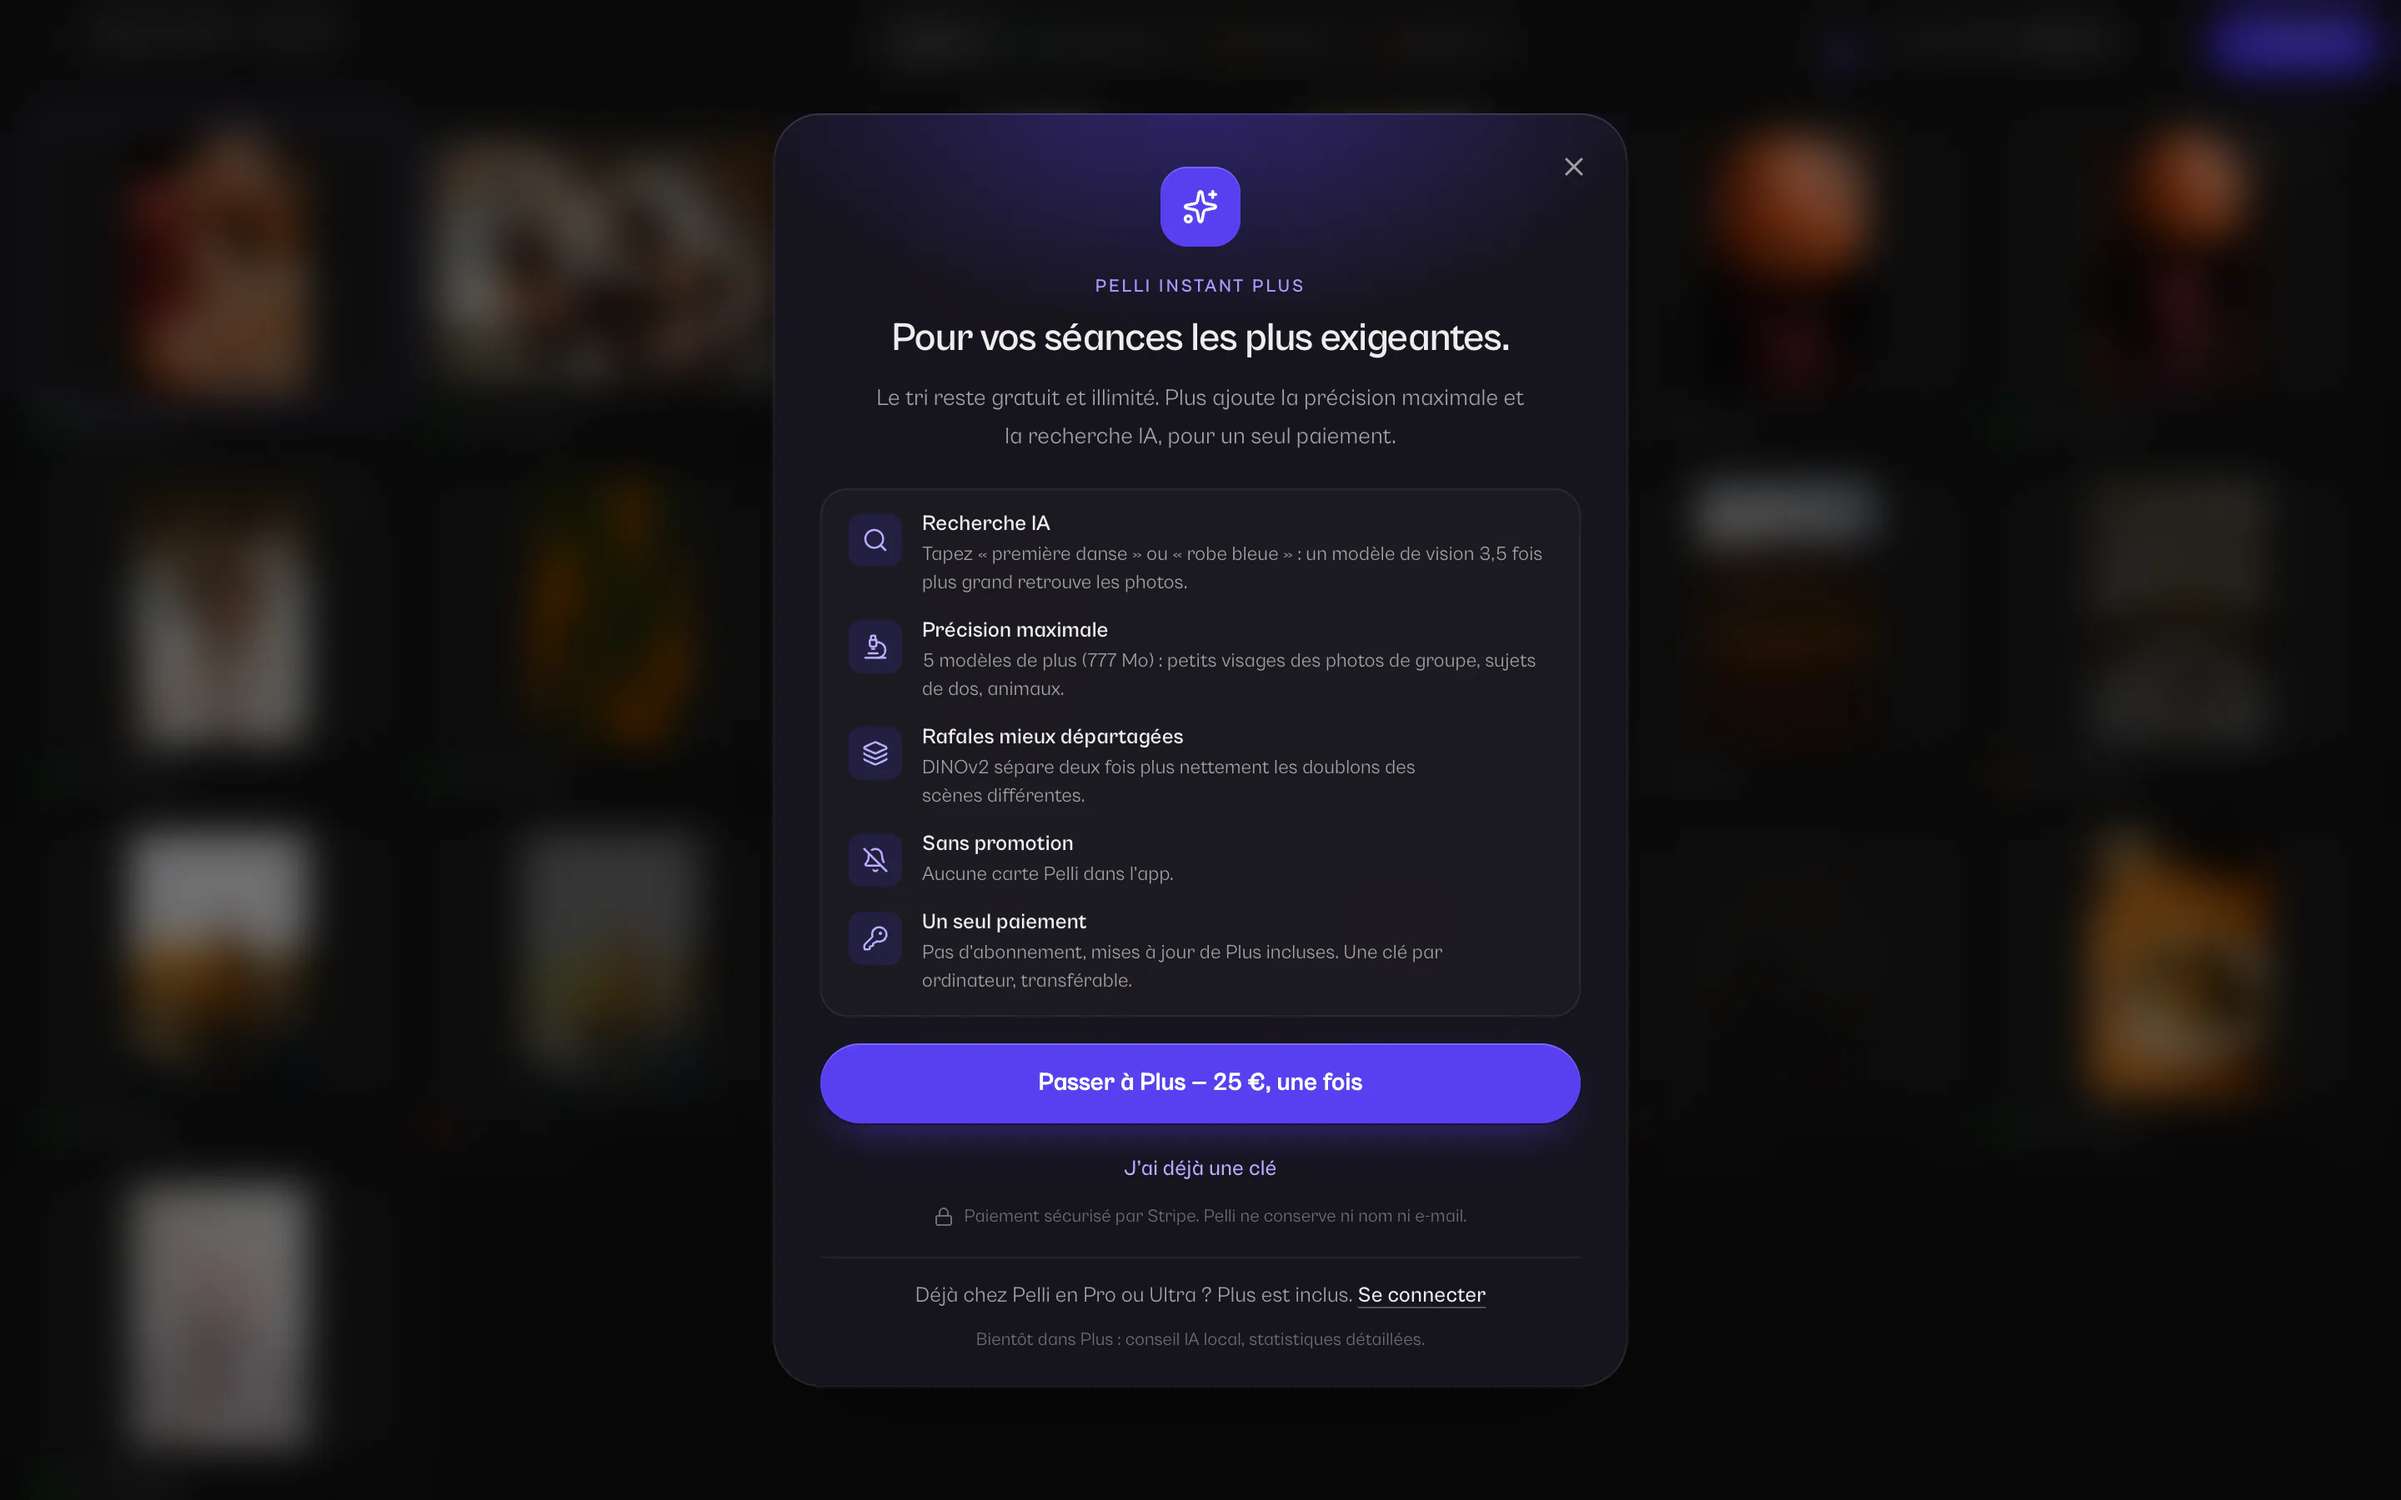
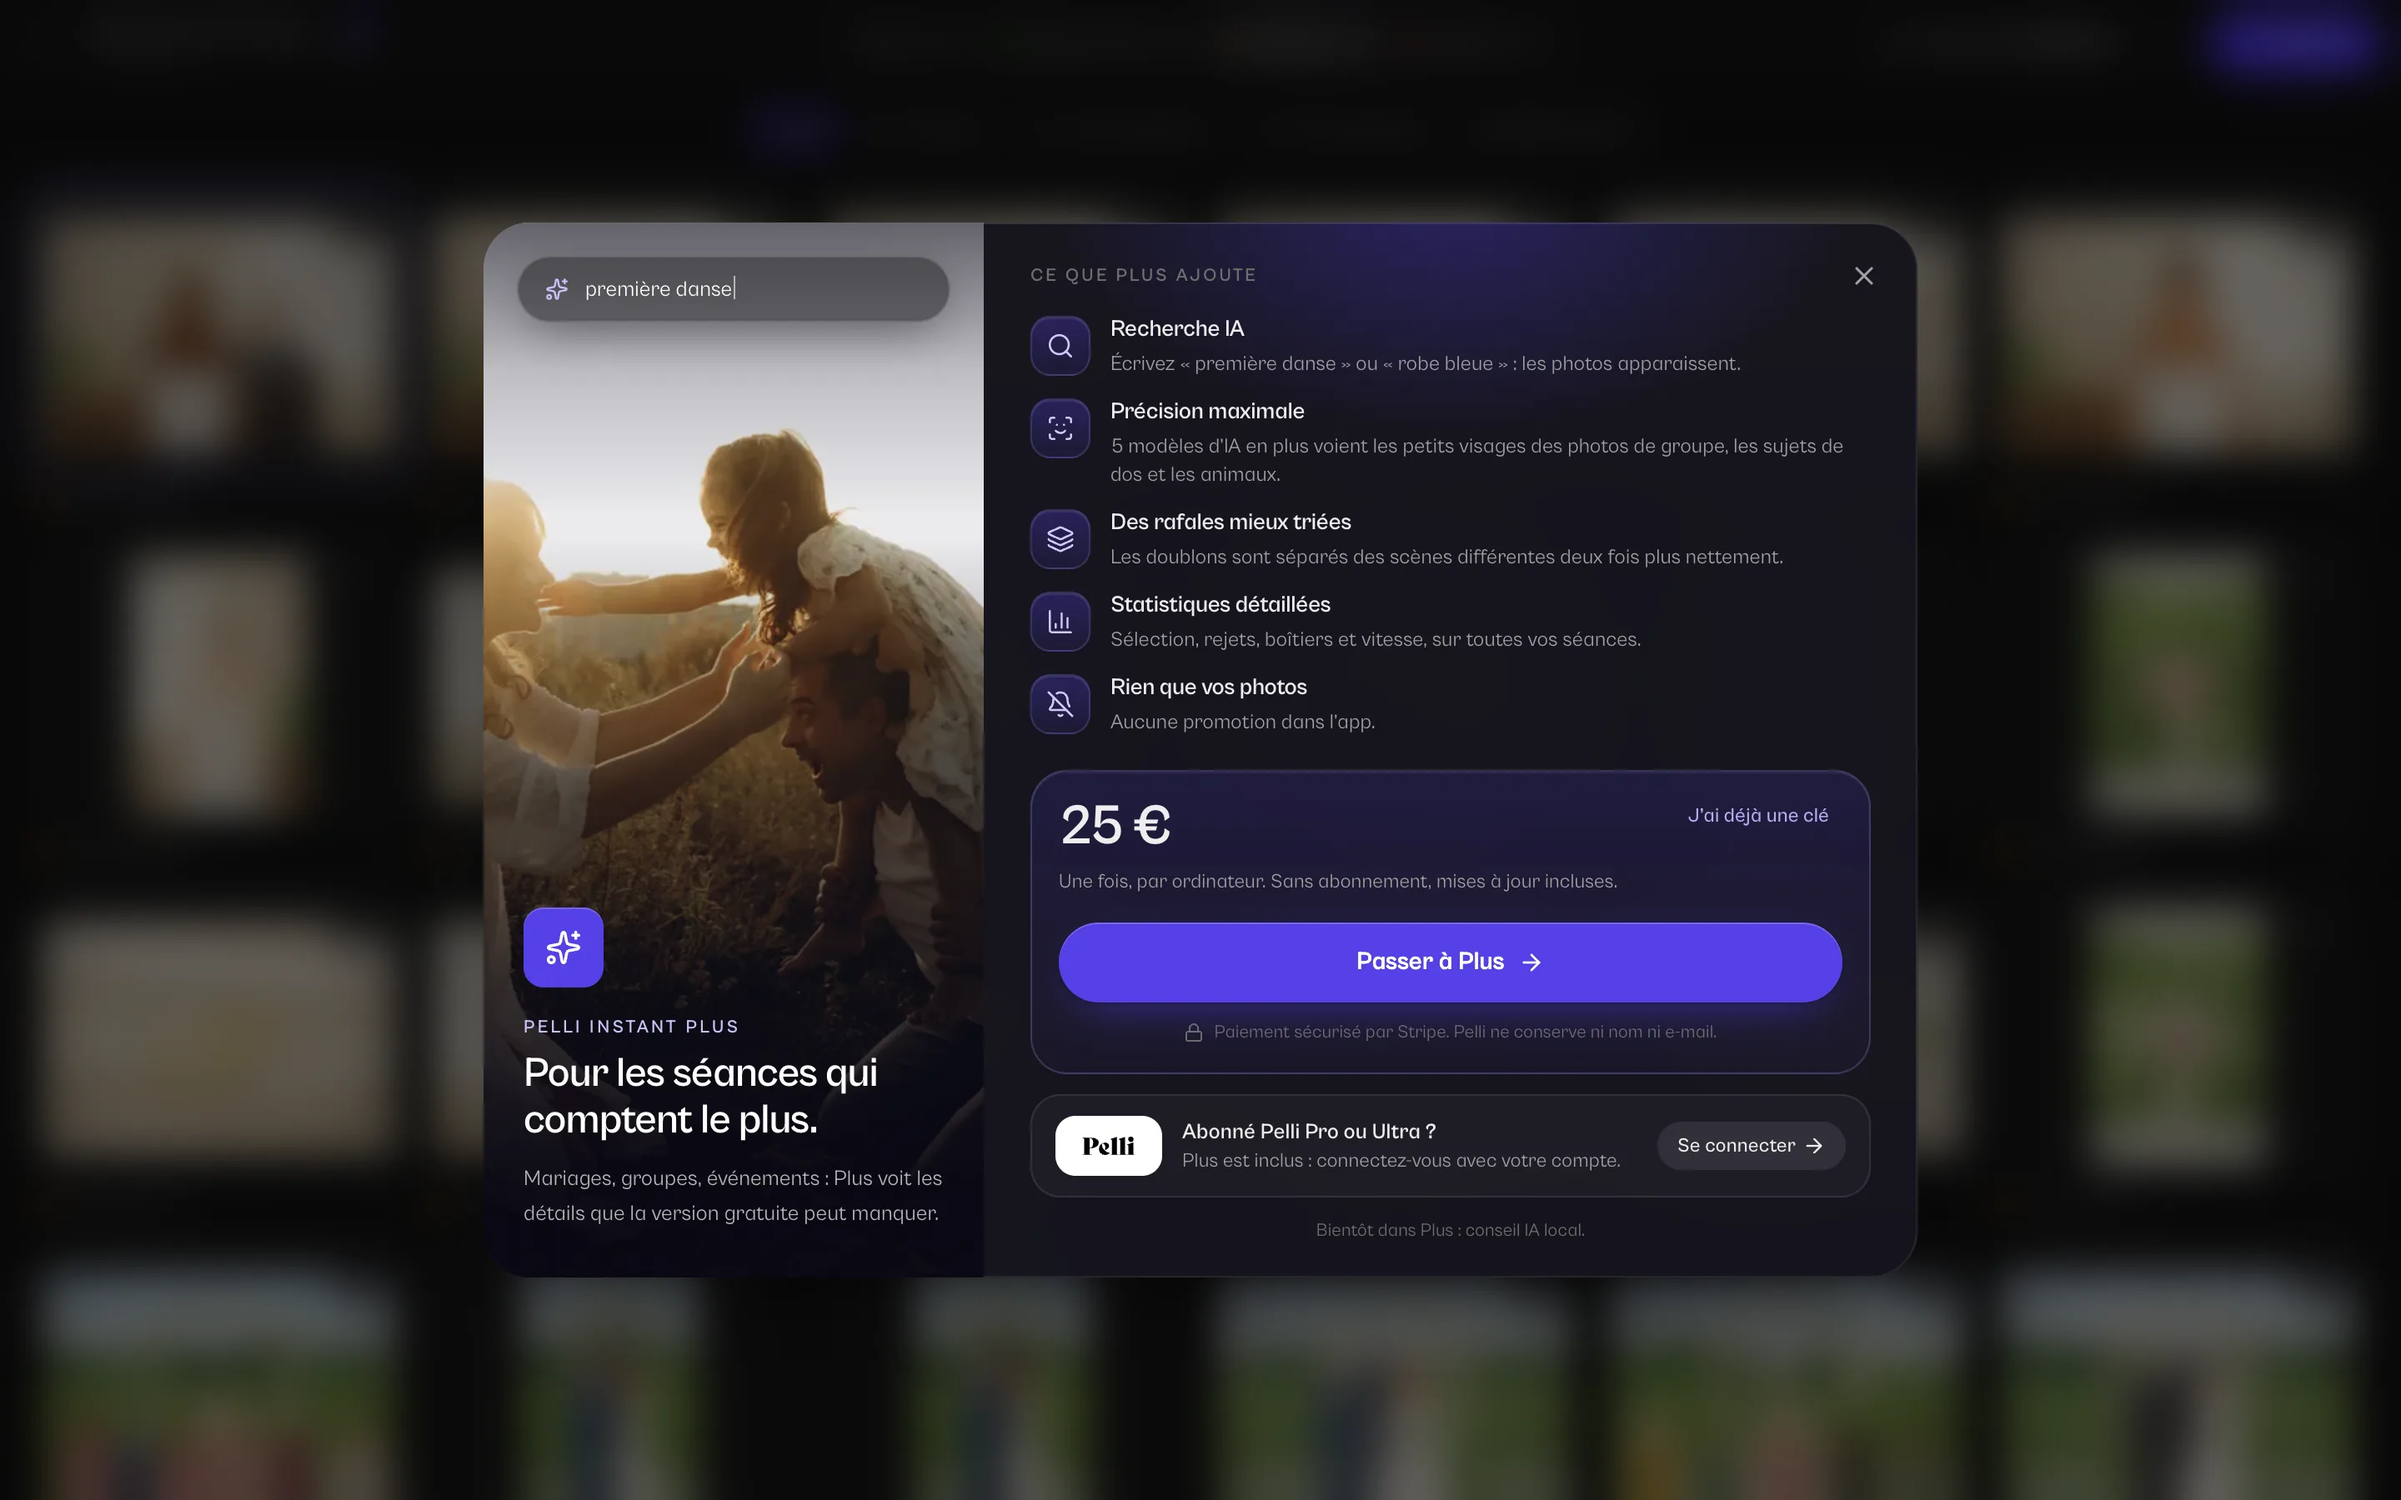
docs: the current Plus offer in the README images

diff --git a/README.fr.md b/README.fr.md
@@ -119,7 +119,7 @@ Le tri reste gratuit et illimité. **Plus**, c'est pour vos séances les plus ex
 - **Déjà chez Pelli en Pro ou Ultra ?** Plus est inclus (offres à vie et essais Pro ou Ultra compris) : connectez-vous avec votre compte Pelli dans *Réglages → Pelli Instant Plus*.
 
 <p align="center">
-  <img src="docs/images/fr/plus.webp" width="760" alt="L'offre Pelli Instant Plus : précision maximale, recherche IA, aucune promotion, un seul paiement" />
+  <img src="docs/images/fr/plus.webp" width="760" alt="L'offre Pelli Instant Plus : recherche IA, précision maximale, rafales mieux triées, statistiques détaillées, aucune promotion, 25 € une fois" />
 </p>
 
 ### Bientôt

diff --git a/README.md b/README.md
@@ -119,7 +119,7 @@ Sorting stays free and unlimited. **Plus** is for your most demanding shoots: **
 - **Already on Pelli Pro or Ultra?** Plus is included (lifetime deals and Pro or Ultra trials too): sign in with your Pelli account in *Settings → Pelli Instant Plus*.
 
 <p align="center">
-  <img src="docs/images/plus.webp" width="760" alt="The Pelli Instant Plus offer: maximum precision, AI search, no promotion, one payment" />
+  <img src="docs/images/plus.webp" width="760" alt="The Pelli Instant Plus offer: AI search, maximum precision, better-sorted bursts, detailed statistics, no promotion, $25 once" />
 </p>
 
 ### Coming soon
